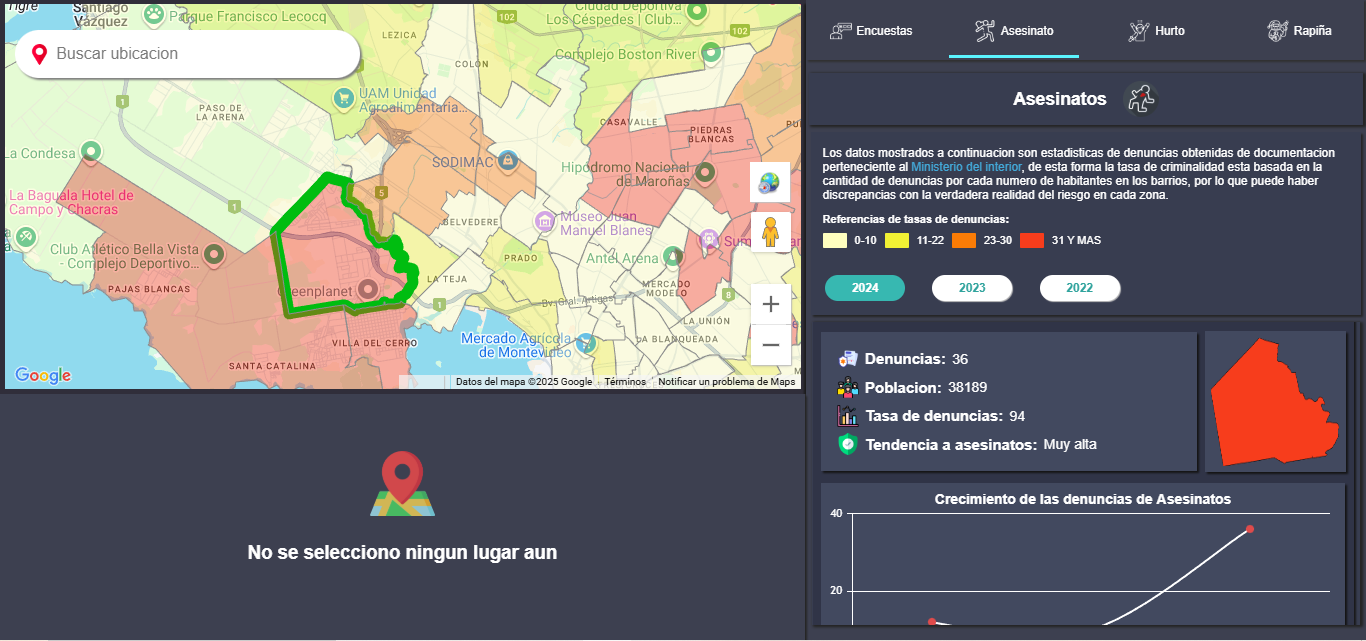
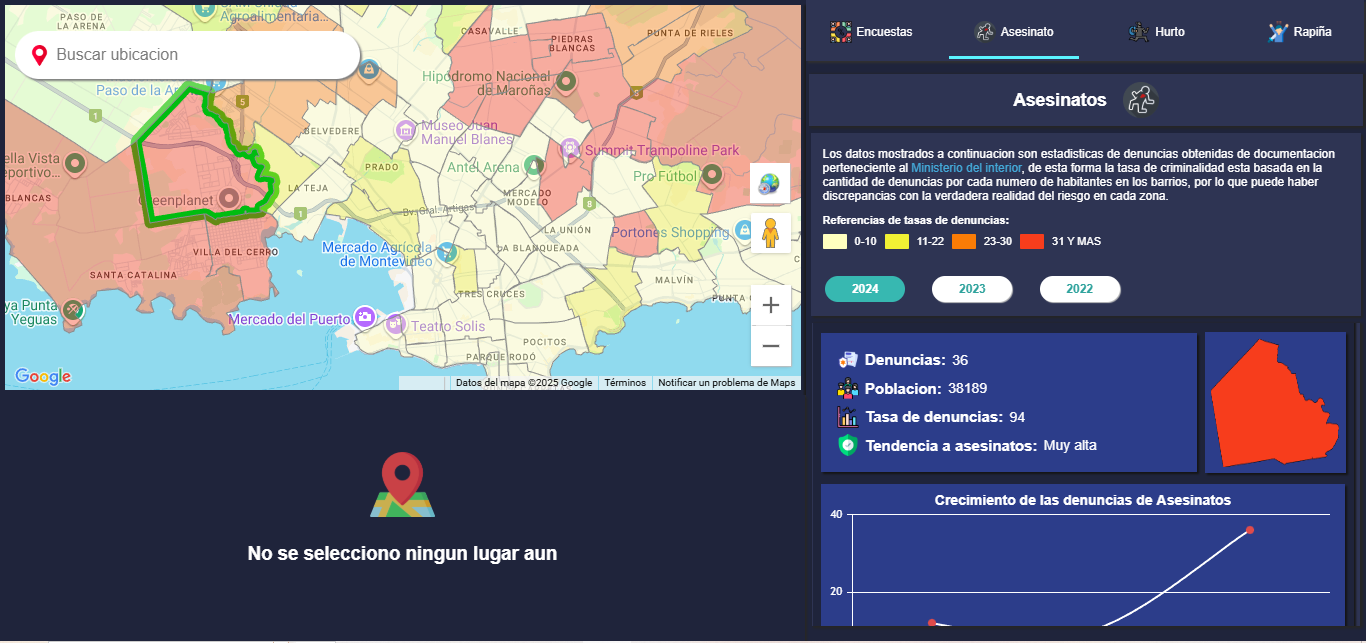
color UI changed

diff --git a/frontend/src/components/map/placeDetails/PlaceDetails.module.css b/frontend/src/components/map/placeDetails/PlaceDetails.module.css
@@ -8,7 +8,7 @@
     top: 100;
     height: 38.5%;
     width: 58.9%;
-    background-color: #3d4050;
+    background-color: #1f243b;
     box-shadow: 2px 2px 2px rgb(37, 37, 37);
     color: white;
     z-index: 5;
@@ -25,8 +25,8 @@
     padding: 1rem;
     width: 49%;
     height: 76%;
-    box-shadow: 2px 2px 2px rgb(37, 37, 37);
-    background-color: #2e3241;
+    box-shadow: 2px 2px 2px rgb(7, 7, 7);
+    background-color: #2e3453;
     overflow-x: hidden;
     scrollbar-width: none;
     scrollbar-color: rgb(151, 151, 151) rgb(243, 243, 243);
@@ -40,15 +40,15 @@
     padding: 0.5rem;
     width: 98%;
     box-shadow: 2px 2px 2px rgb(37, 37, 37);
-    background-color: #272b3a;
+    background-color: #2e3453;
 }
 
 .containDetails .column .title {
     margin: 0;
     padding: 0.5rem;
     width: 98%;
-    box-shadow: 2px 2px 2px rgb(37, 37, 37);
-    background-color: #272b3a;
+    box-shadow: 2px 2px 2px rgb(7, 7, 7);
+    background-color: #1e233b;
     text-align: center;
 }
 
@@ -59,8 +59,8 @@
     flex-direction: column;
     align-items: start;
     width: 98%;
-    box-shadow: 2px 2px 2px rgb(37, 37, 37);
-    background-color: #272b3a;
+    box-shadow: 2px 2px 2px rgb(7, 7, 7);
+    background-color: #1e233b;
 }
 
 .containDetails .column .aboutIt span {
@@ -78,8 +78,8 @@
     align-items: start;
     list-style: none;
     width: 98%;
-    box-shadow: 2px 2px 2px rgb(37, 37, 37);
-    background-color: #272b3a;
+    box-shadow: 2px 2px 2px rgb(7, 7, 7);
+    background-color: #1e233b;
     margin: 0;
     padding: 0.5rem;
     gap: 1.5rem;

diff --git a/frontend/src/components/map/optionsCrimes/OptionsCrimes.jsx b/frontend/src/components/map/optionsCrimes/OptionsCrimes.jsx
@@ -3,7 +3,6 @@ import { useState } from "react";
 import { useEffect } from "react";
 import { useZoneCrimes } from "../../../contexts/zoneCrimesContext/ZoneCrimesContext";
 import { useQuizes } from "../../../contexts/quizesContext/QuizesContext";
-import { useMap } from "@vis.gl/react-google-maps";
 import { useMapControls } from "../../../contexts/MapContext";
 import { ContainQuizes } from "../quizes/containQuizes/ContainQuizes";
 import { CrimeNeighbordhoods } from "./crimeNeighData/CrimeNeighbordhoods";
@@ -30,8 +29,8 @@ export const OptionsCrimes = () => {
     const crimes = await getCrimes(setLoadingCrimes, setErrorQuery);
     if (crimes) {
       setCrimes(crimes);
-      setCrimeSelected(crimes[0]);
-      loadCrimeDataNeighborhoods(crimes[0]);
+      setCrimeSelected(crimes[0].category);
+      loadCrimeDataNeighborhoods(crimes[0].category);
     }
   };
 

diff --git a/frontend/src/components/map/optionsCrimes/menu/Menu.jsx b/frontend/src/components/map/optionsCrimes/menu/Menu.jsx
@@ -1,8 +1,8 @@
 import styles from "../OptionsCrimes.module.css";
-import iconKill from "../../../../assets/img/killMenu.png";
-import iconTheft from "../../../../assets/img/theftMenu.png";
-import iconHoldup from "../../../../assets/img/holdupMenu.png";
-import iconQuizes from "../../../../assets/img/quizesMenu.png";
+import iconKill from "../../../../assets/img/kill.png";
+import iconTheft from "../../../../assets/img/theft.png";
+import iconHoldup from "../../../../assets/img/holdup.png";
+import iconQuizes from "../../../../assets/img/quizes.png";
 import { useQuizes } from "../../../../contexts/quizesContext/QuizesContext";
 import { useZoneCrimes } from "../../../../contexts/zoneCrimesContext/ZoneCrimesContext";
 

diff --git a/frontend/src/components/map/quizes/Table.module.css b/frontend/src/components/map/quizes/Table.module.css
@@ -5,7 +5,7 @@
     width: 97%;
     height: 55%;
     margin-top: 0.5rem;
-    background-color: #383d50;
+    background-color: #2e3453;
     box-shadow:
         rgb(37, 37, 37) 2px 1px 2px 0px,
         rgb(37, 37, 37) 2px 1px 3px 1px;
@@ -42,11 +42,11 @@ td {
 }
 
 .trGray {
-    background-color: #2f313f;
+    background-color: #3a457c;
     cursor: pointer;
 }
 .trWhite {
-    background-color: #444964;
+    background-color: #252e5a;
     cursor: pointer;
 }
 
@@ -63,7 +63,7 @@ td {
     flex-direction: column;
     align-items: center;
     border-top: 1px solid rgb(224, 224, 224);
-    background-color: #303447;
+    background-color: #1f243b;
 }
 
 .table .moreDetails h4 {

diff --git a/frontend/src/components/map/placesSearched/PlacesSearched.module.css b/frontend/src/components/map/placesSearched/PlacesSearched.module.css
@@ -9,7 +9,7 @@
     height: 38%;
     width: 58.8%;
     box-shadow: 2px 2px 2px rgb(32, 32, 32);
-    background-color: #3d4050;
+    background-color: #1f243b;
     color: white;
     z-index: 3;
     font-family: Arial, Helvetica, sans-serif;
@@ -43,7 +43,7 @@
     box-shadow: 2px 2px 2px rgb(26, 26, 26);
     padding: 0.5rem;
     margin: 0;
-    background-color: #2e3241;
+    background-color: #2e3453;
 }
 
 .containPlaces ul li:hover {
@@ -66,7 +66,7 @@
     height: 8rem;
     gap: 0.5rem;
     padding: 0.5rem;
-    background-color: #272b3a;
+    background-color: #1b2344;
     box-shadow: 2px 2px 2px rgb(26, 26, 26);
 }
 .containPlaces ul li .details h4 {

diff --git a/frontend/src/components/map/optionsCrimes/crimeNeighData/table/Table.module.css b/frontend/src/components/map/optionsCrimes/crimeNeighData/table/Table.module.css
@@ -7,7 +7,7 @@
     box-shadow:
         rgb(37, 37, 37) 2px 1px 2px 0px,
         rgb(37, 37, 37) 2px 1px 3px 1px;
-    background-color: #383d50;
+    background-color: #2e3453;
 }
 
 .scroll {
@@ -40,11 +40,11 @@ td {
 }
 
 .trGray {
-    background-color: #2f313f;
+    background-color: #3a457c;
     cursor: pointer;
 }
 .trWhite {
-    background-color: #444964;
+    background-color: #252e5a;
     cursor: pointer;
 }
 
@@ -64,7 +64,7 @@ td {
     align-items: center;
     width: 100%;
     box-shadow: 2px 2px 2px rgb(24, 24, 24);
-    background-color: #303447;
+    background-color: #1f243b;
     padding-bottom: 0.5rem;
     border-radius: 5px;
 }

diff --git a/frontend/src/components/map/optionsCrimes/OptionsCrimes.module.css b/frontend/src/components/map/optionsCrimes/OptionsCrimes.module.css
@@ -13,7 +13,7 @@
     height: 100vh;
     border-left: none;
     box-shadow: -2px 5px 2px rgb(27, 27, 27);
-    background-color: #3d4050;
+    background-color: #1f243b;
 }
 
 .menuOptionsCrimes {
@@ -24,7 +24,7 @@
     gap: 0.8rem;
     width: 99.7%;
     height: 3.3rem;
-    background-color: #3d4050;
+    background-color: #2e3453;
     color: white;
     padding: 0;
     padding-top: 0.5rem;

diff --git a/frontend/src/components/map/quizes/containQuizes/ContainQuizes.module.css b/frontend/src/components/map/quizes/containQuizes/ContainQuizes.module.css
@@ -1,5 +1,5 @@
 .containData {
-    background-color: #3d4050;
+    background-color: #1f243b;
     border-radius: 5px;
     width: 35rem;
     height: 87vh;
@@ -50,7 +50,7 @@
     width: 100%;
     width: 99%;
     font-size: 15px;
-    background-color: #383d50;
+    background-color: #2e3453;
     box-shadow:
         rgb(37, 37, 37) 2px 1px 2px 0px,
         rgb(37, 37, 37) 2px 1px 3px 1px;

diff --git a/frontend/src/components/map/quizes/polygonDraw/PolygonDraw.module.css b/frontend/src/components/map/quizes/polygonDraw/PolygonDraw.module.css
@@ -16,7 +16,7 @@
     color: white;
     padding: 1rem;
     box-shadow: 2px 2px 2px rgb(20, 20, 20);
-    background-color: #42495f;
+    background-color: #2c3d8a;
 }
 
 .containPolygon ul li {
@@ -42,6 +42,6 @@
     width: 8rem;
     height: 7.5rem;
     box-shadow: 2px 2px 2px rgb(20, 20, 20);
-    background-color: #42495f;
+    background-color: #2c3d8a;
     padding: 0.4rem;
 }

diff --git a/frontend/src/components/map/optionsCrimes/crimeNeighData/table/polygonDraw/PolygonDraw.module.css b/frontend/src/components/map/optionsCrimes/crimeNeighData/table/polygonDraw/PolygonDraw.module.css
@@ -16,7 +16,7 @@
     color: white;
     padding: 1rem;
     box-shadow: 2px 2px 2px rgb(20, 20, 20);
-    background-color: #42495f;
+    background-color: #2c3d8a;
 }
 
 .containPolygon ul li {
@@ -43,5 +43,5 @@
     height: 8rem;
     padding: 0.4rem;
     box-shadow: 2px 2px 2px rgb(20, 20, 20);
-    background-color: #42495f;
+    background-color: #2c3d8a;
 }

diff --git a/frontend/src/components/map/placesSearched/PlacesSearched.jsx b/frontend/src/components/map/placesSearched/PlacesSearched.jsx
@@ -15,7 +15,7 @@ export const PlacesSearched = () => {
   };
   return (
     <div className={styles.containPlaces}>
-      <h4>Resultados de {valueInput}:</h4>
+      <h4>Resultados a la busqueda {valueInput}:</h4>
       <ul>
         {placesSearched.map((place, index) => (
           <li onClick={() => handleClick(place)} key={index}>

diff --git a/frontend/src/components/map/placeDetails/containPhoto/ContainPhoto.module.css b/frontend/src/components/map/placeDetails/containPhoto/ContainPhoto.module.css
@@ -6,8 +6,8 @@
     justify-content: center;
     flex-direction: column;
     align-items: center;
-    box-shadow: 2px 2px 2px rgb(37, 37, 37);
-    background-color: #2e3241;
+     box-shadow: 2px 2px 2px rgb(7, 7, 7);
+    background-color: #2e3453;
     font-weight: bold;
     position: relative;
     margin-left: 0.5rem;
